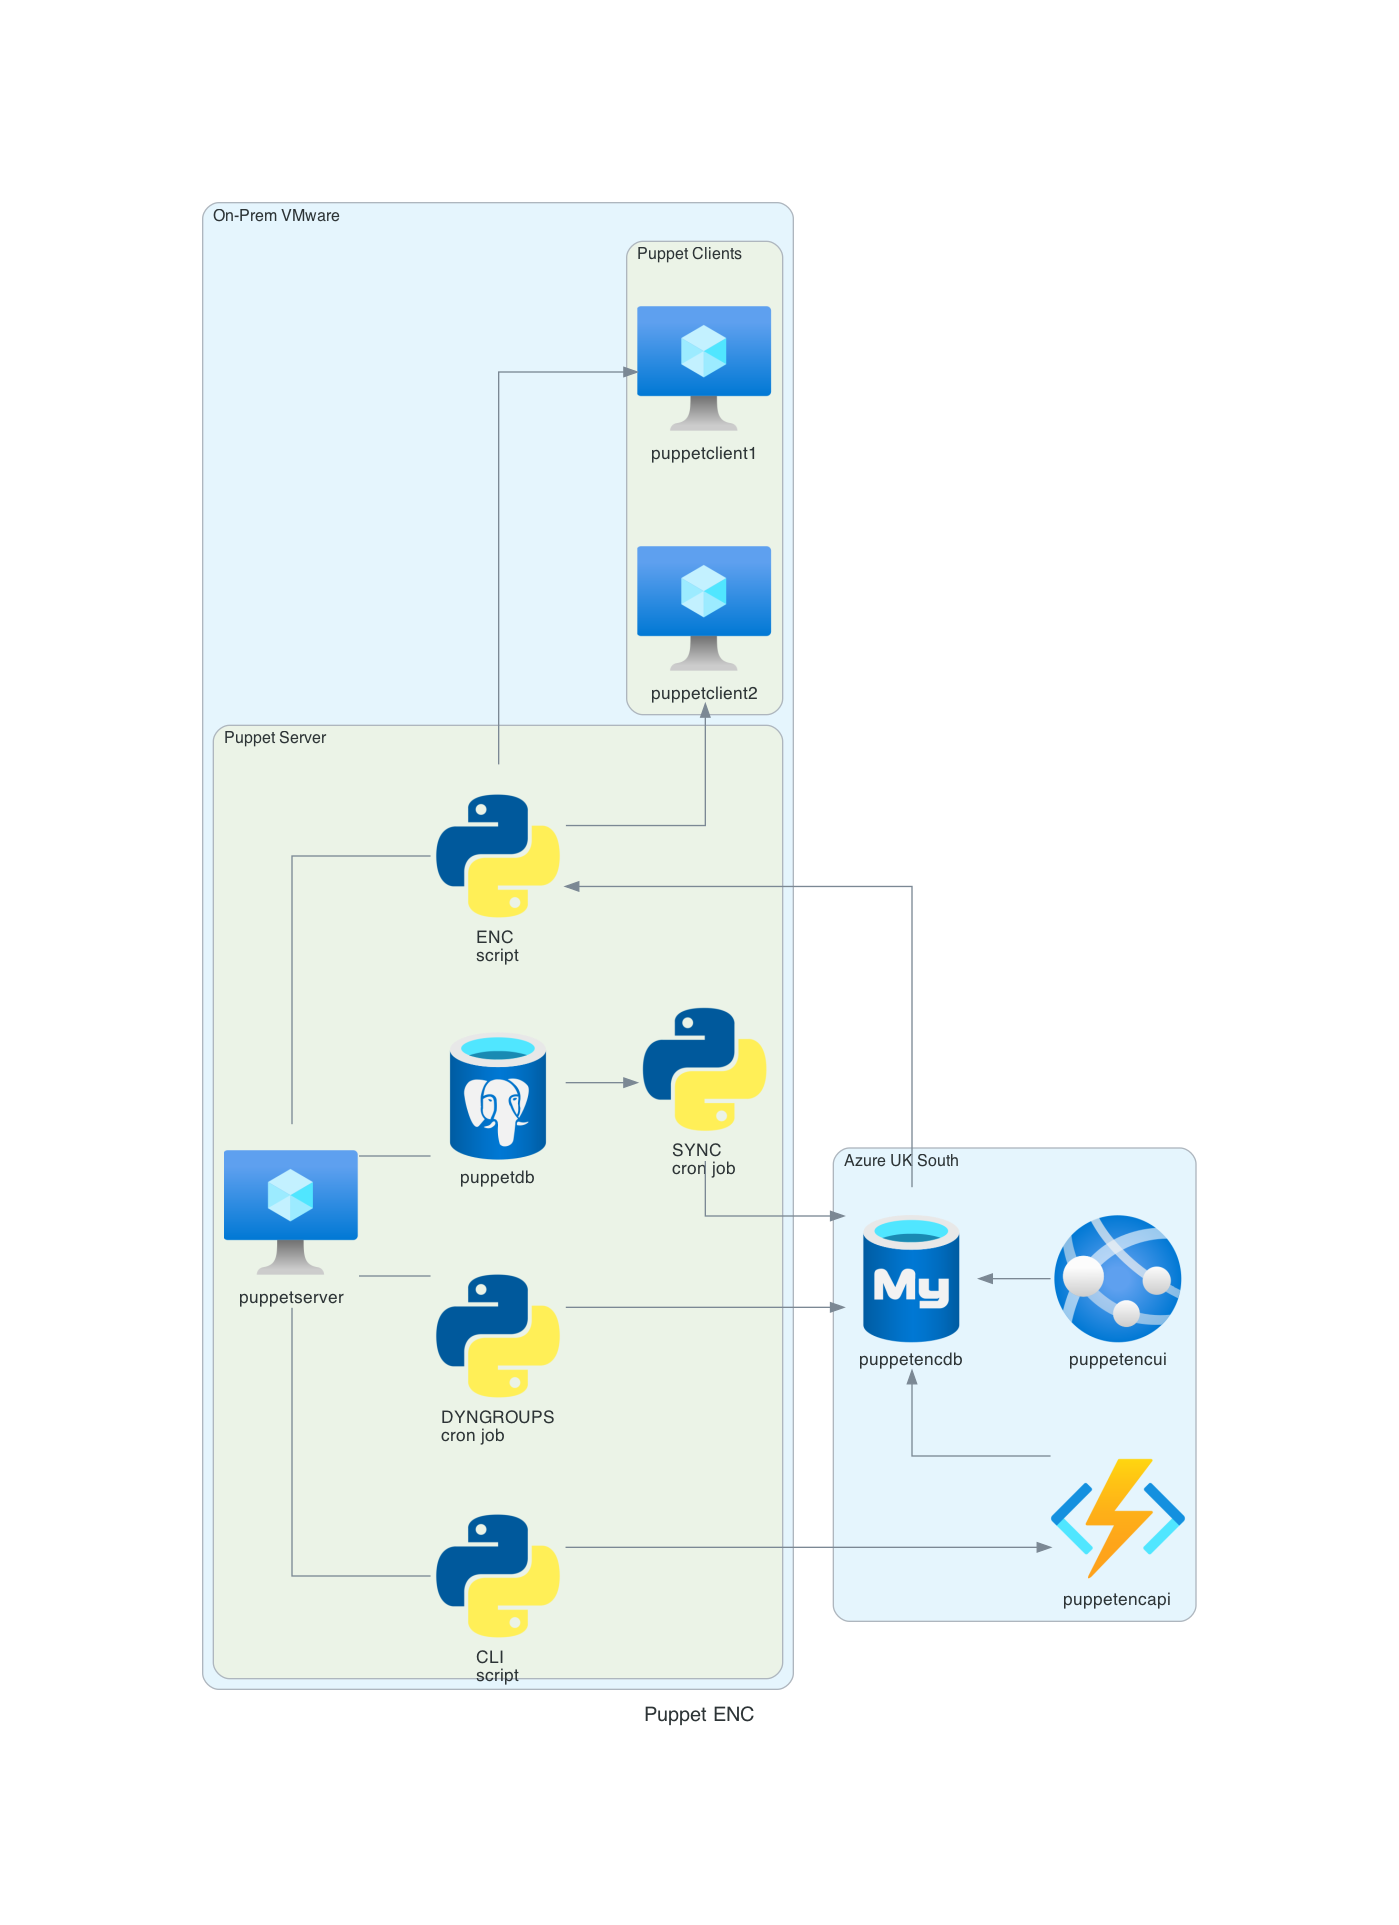
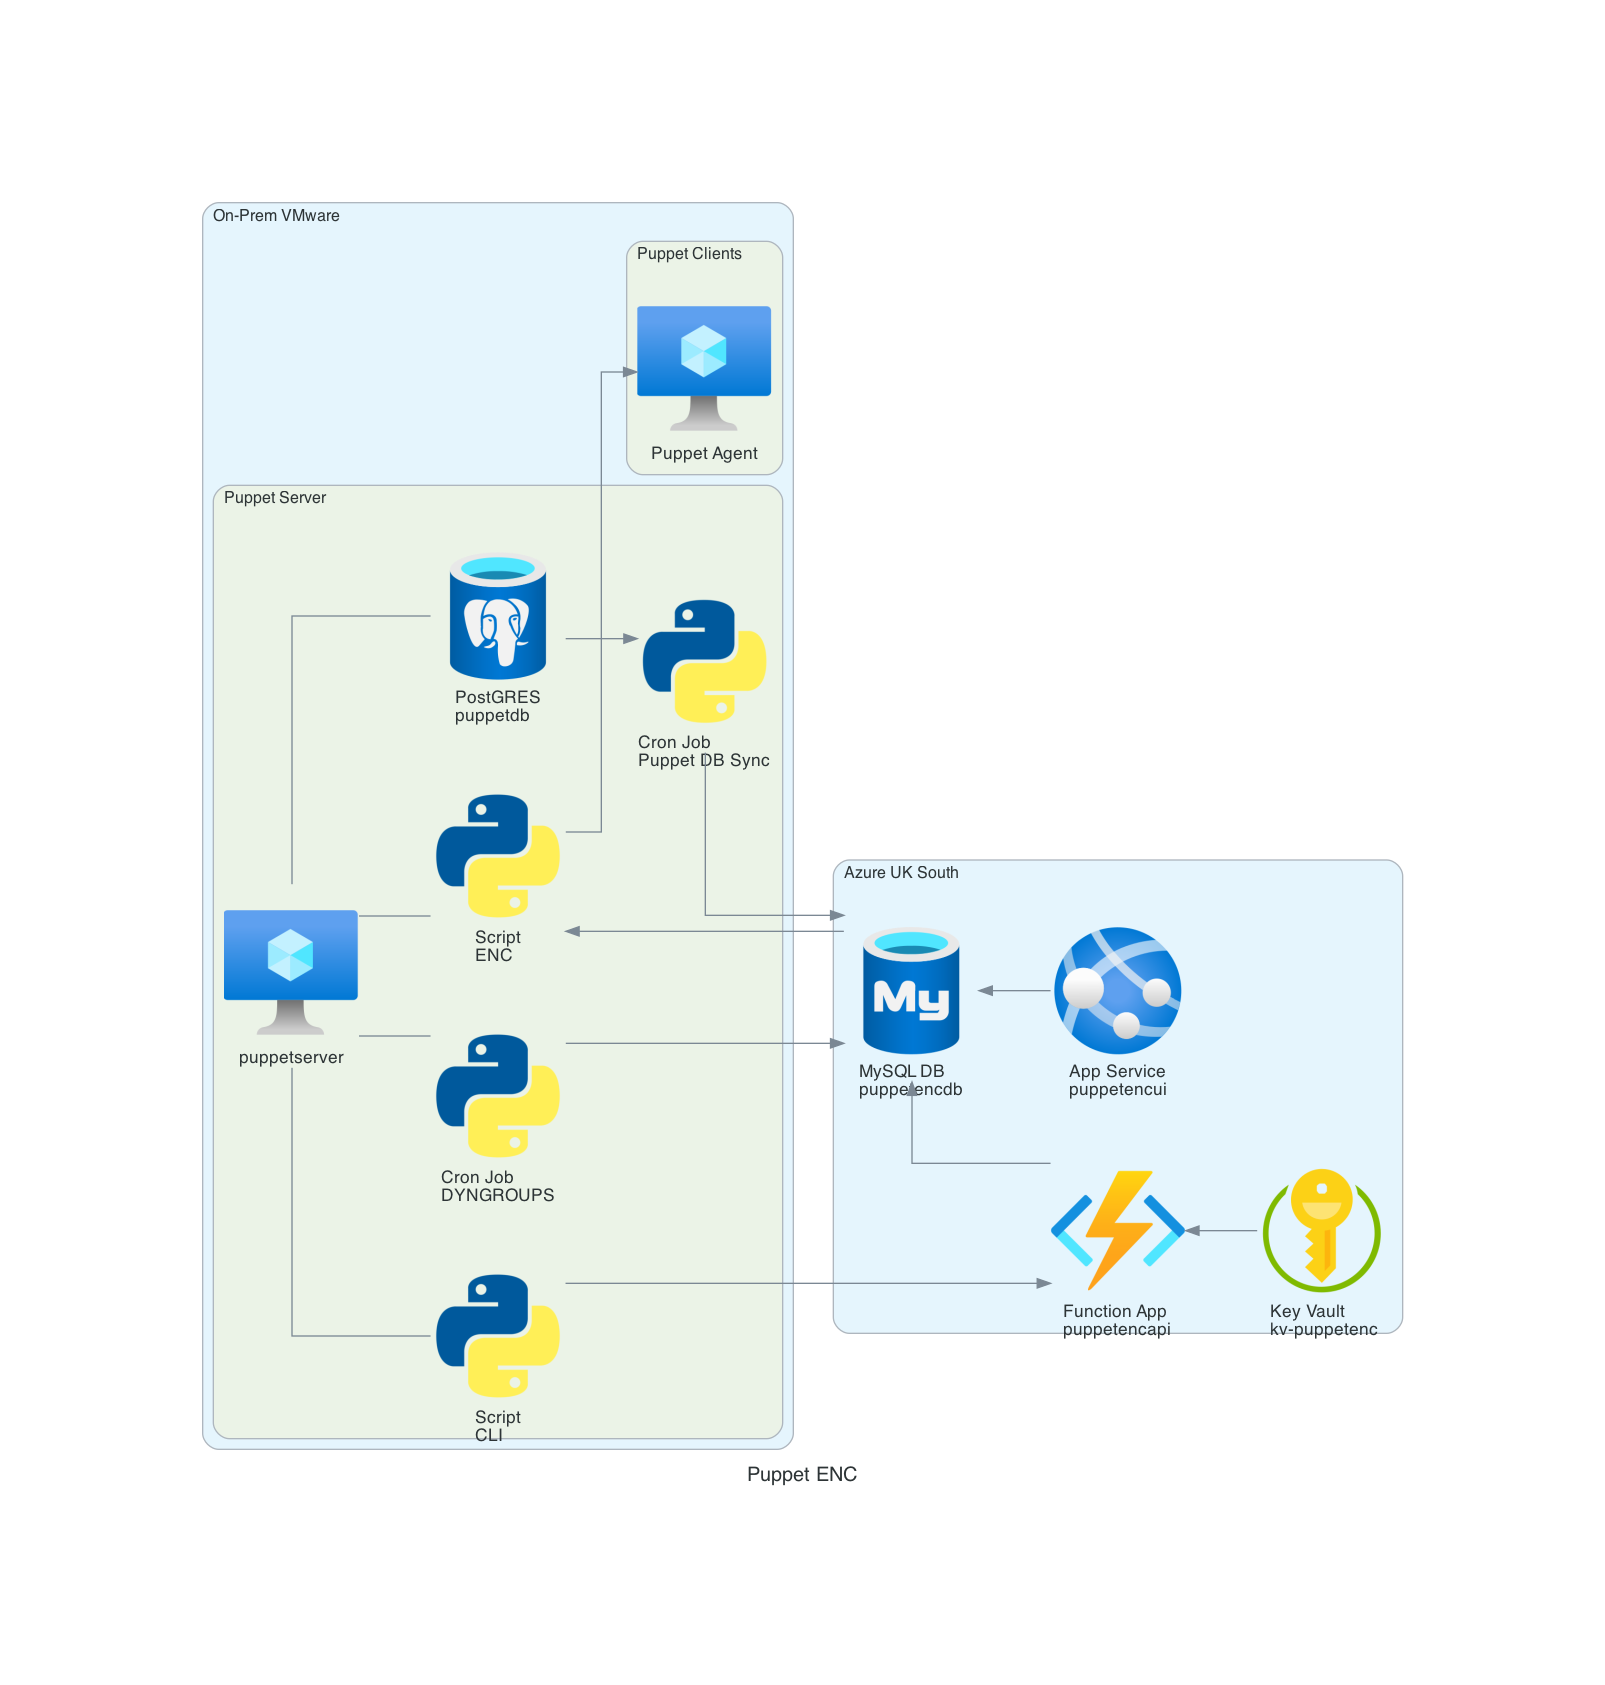
Update

Changed region(s): [[0.1229, 0.0926, 0.8914, 0.895]]

diff --git a/puppet_enc.py b/puppet_enc.py
@@ -2,34 +2,36 @@
 from diagrams import Diagram, Cluster
 from diagrams.azure.database import DatabaseForMysqlServers, DatabaseForPostgresqlServers
 from diagrams.azure.compute import FunctionApps, AppServices, VM
+from diagrams.azure.security import KeyVaults
 from diagrams.programming.language import Python
 
 with Diagram("Puppet ENC", show=False):
 
     with Cluster('Azure UK South'):
-        mysqldb = DatabaseForMysqlServers('puppetencdb')
-        apifuncapp = FunctionApps('puppetencapi')
-        uiappservice = AppServices('puppetencui')
+        mysqldb = DatabaseForMysqlServers('MySQL DB\rpuppetencdb')
+        apifuncapp = FunctionApps('Function App\rpuppetencapi')
+        uiappservice = AppServices('App Service\rpuppetencui')
+        keyvault = KeyVaults('Key Vault\rkv-puppetenc')
 
         mysqldb << [apifuncapp, uiappservice]
+        apifuncapp << keyvault
 
     with Cluster('On-Prem VMware'):
         
         with Cluster('Puppet Server'):
             puppetserver = VM('puppetserver')
-            encprocess = Python('ENC\rscript')
-            syncprocess = Python('SYNC\rcron job')
-            cli = Python('CLI\rscript')
-            dyngroups = Python('DYNGROUPS\rcron job')
-            puppetdb = DatabaseForPostgresqlServers('puppetdb')
+            encprocess = Python('Script\rENC')
+            syncprocess = Python('Cron Job\rPuppet DB Sync')
+            cli = Python('Script\rCLI\r')
+            dyngroups = Python('Cron Job\rDYNGROUPS')
+            puppetdb = DatabaseForPostgresqlServers('PostGRES\rpuppetdb')
 
-            puppetserver - encprocess << mysqldb
             puppetserver - puppetdb >> syncprocess >> mysqldb
+            puppetserver - encprocess << mysqldb
             puppetserver - dyngroups >> mysqldb
             puppetserver - cli >> apifuncapp
-
+ 
         with Cluster('Puppet Clients'):
-            puppetclient1 = VM('puppetclient1')
-            puppetclient2 = VM('puppetclient2')
+            puppetclient1 = VM('Puppet Agent')
 
-            encprocess >> [ puppetclient1, puppetclient2 ]
+            encprocess >> [ puppetclient1 ]
